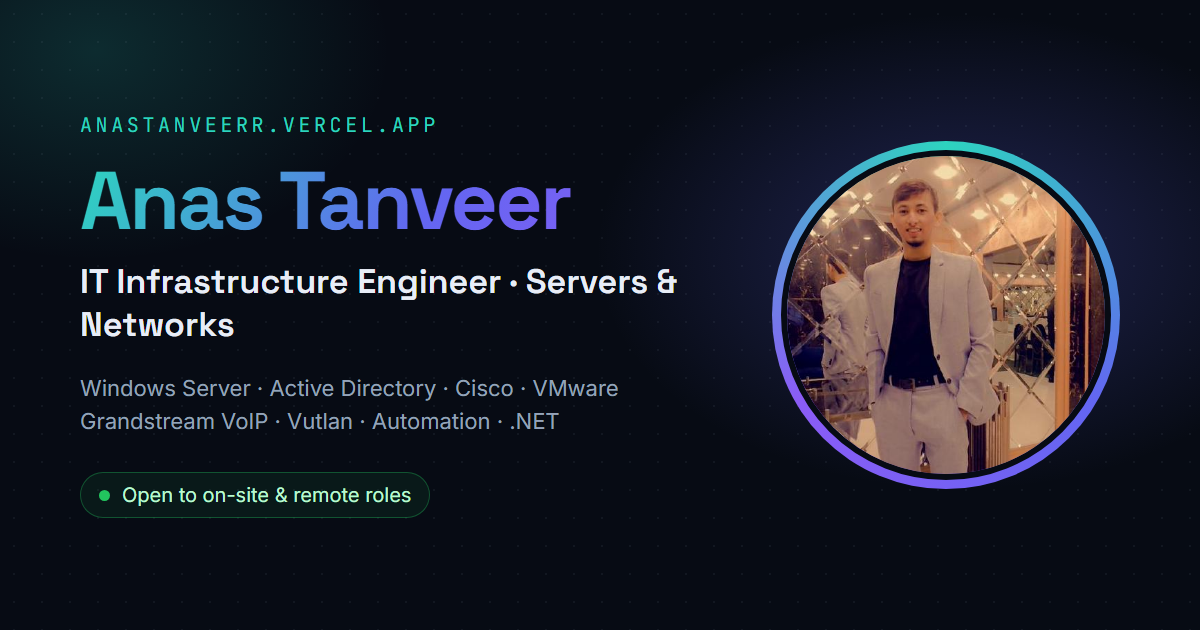
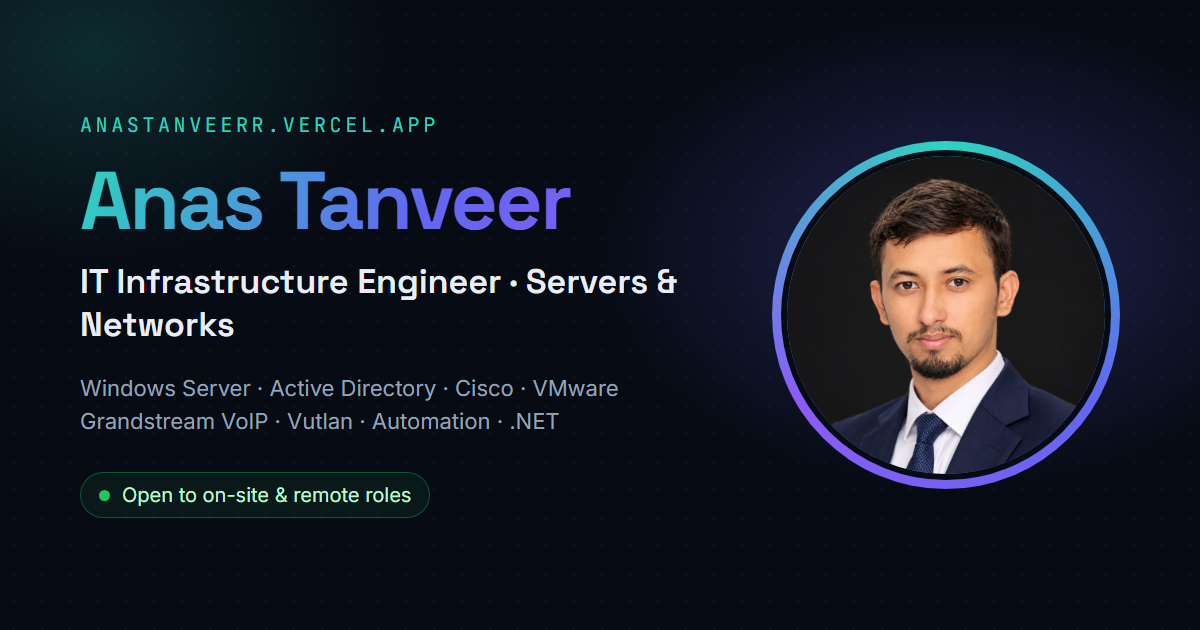
feat: use a professional headshot for the portrait and preview image

Changed region(s): [[0.6475, 0.2413, 0.925, 0.754]]

diff --git a/index.html b/index.html
@@ -103,7 +103,7 @@
         <div class="hero__visual">
           <div class="portrait">
             <div class="portrait__ring" aria-hidden="true"></div>
-            <img src="assets/img/anas.jpg" alt="Portrait of Anas Tanveer" width="460" height="460">
+            <img src="assets/img/anas.jpg" alt="Portrait of Anas Tanveer" width="800" height="800">
           </div>
           <div class="dots" aria-hidden="true"></div>
 
